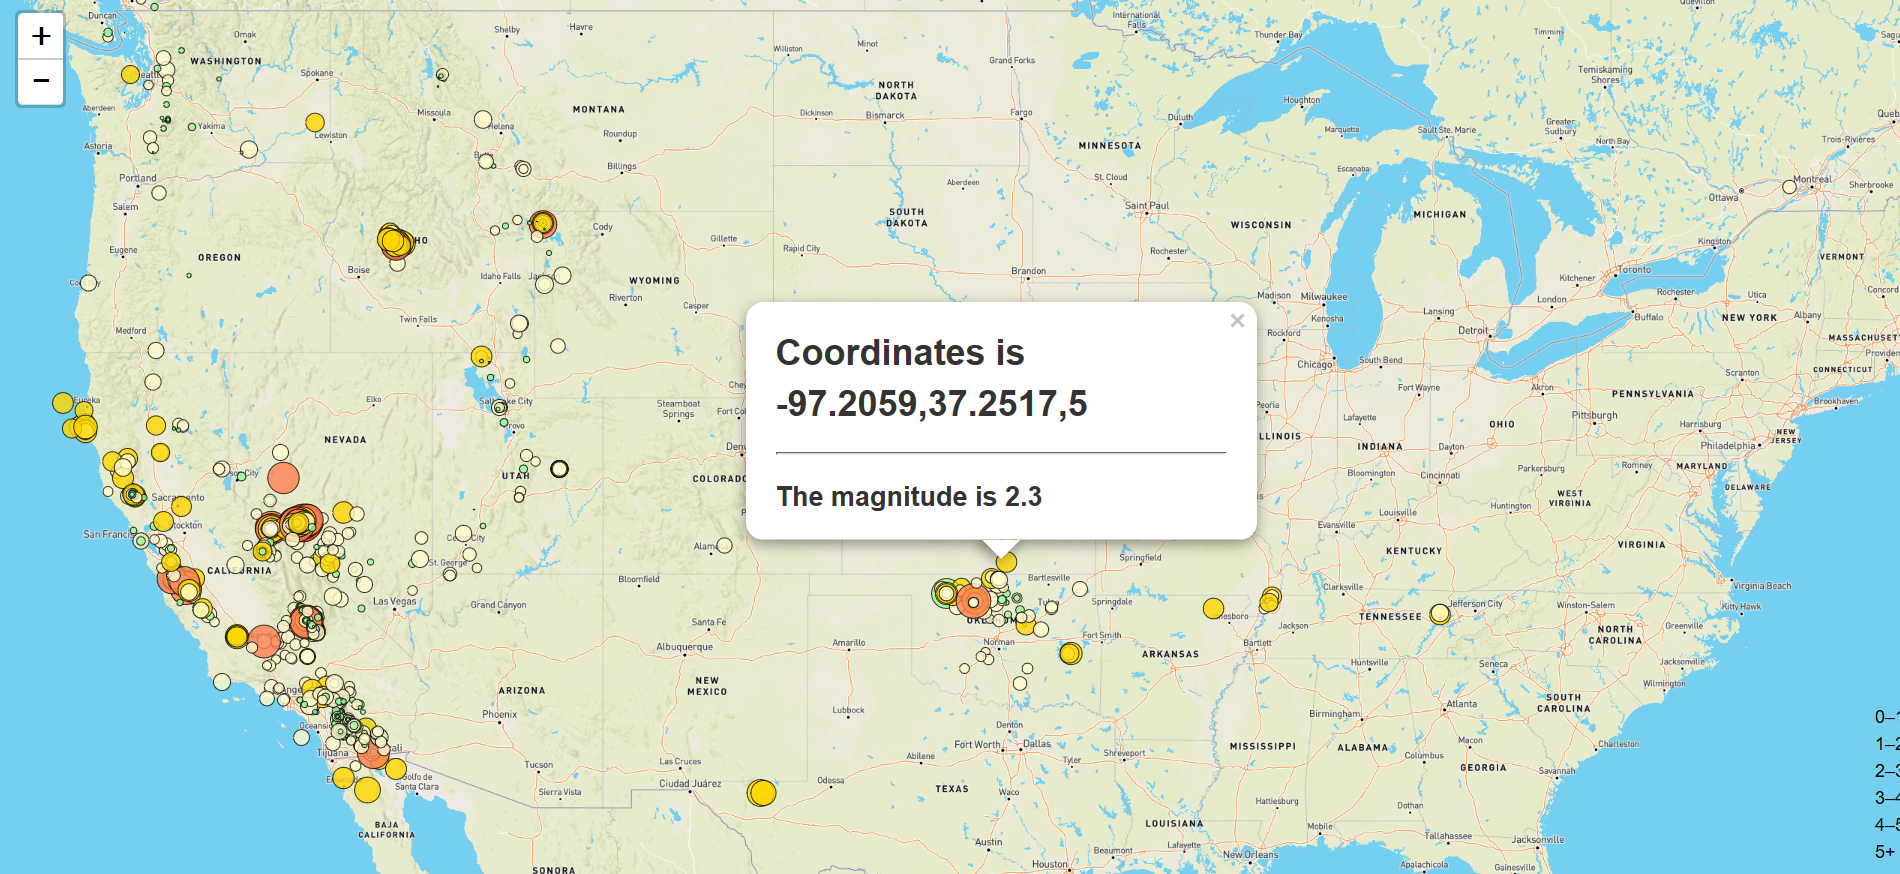
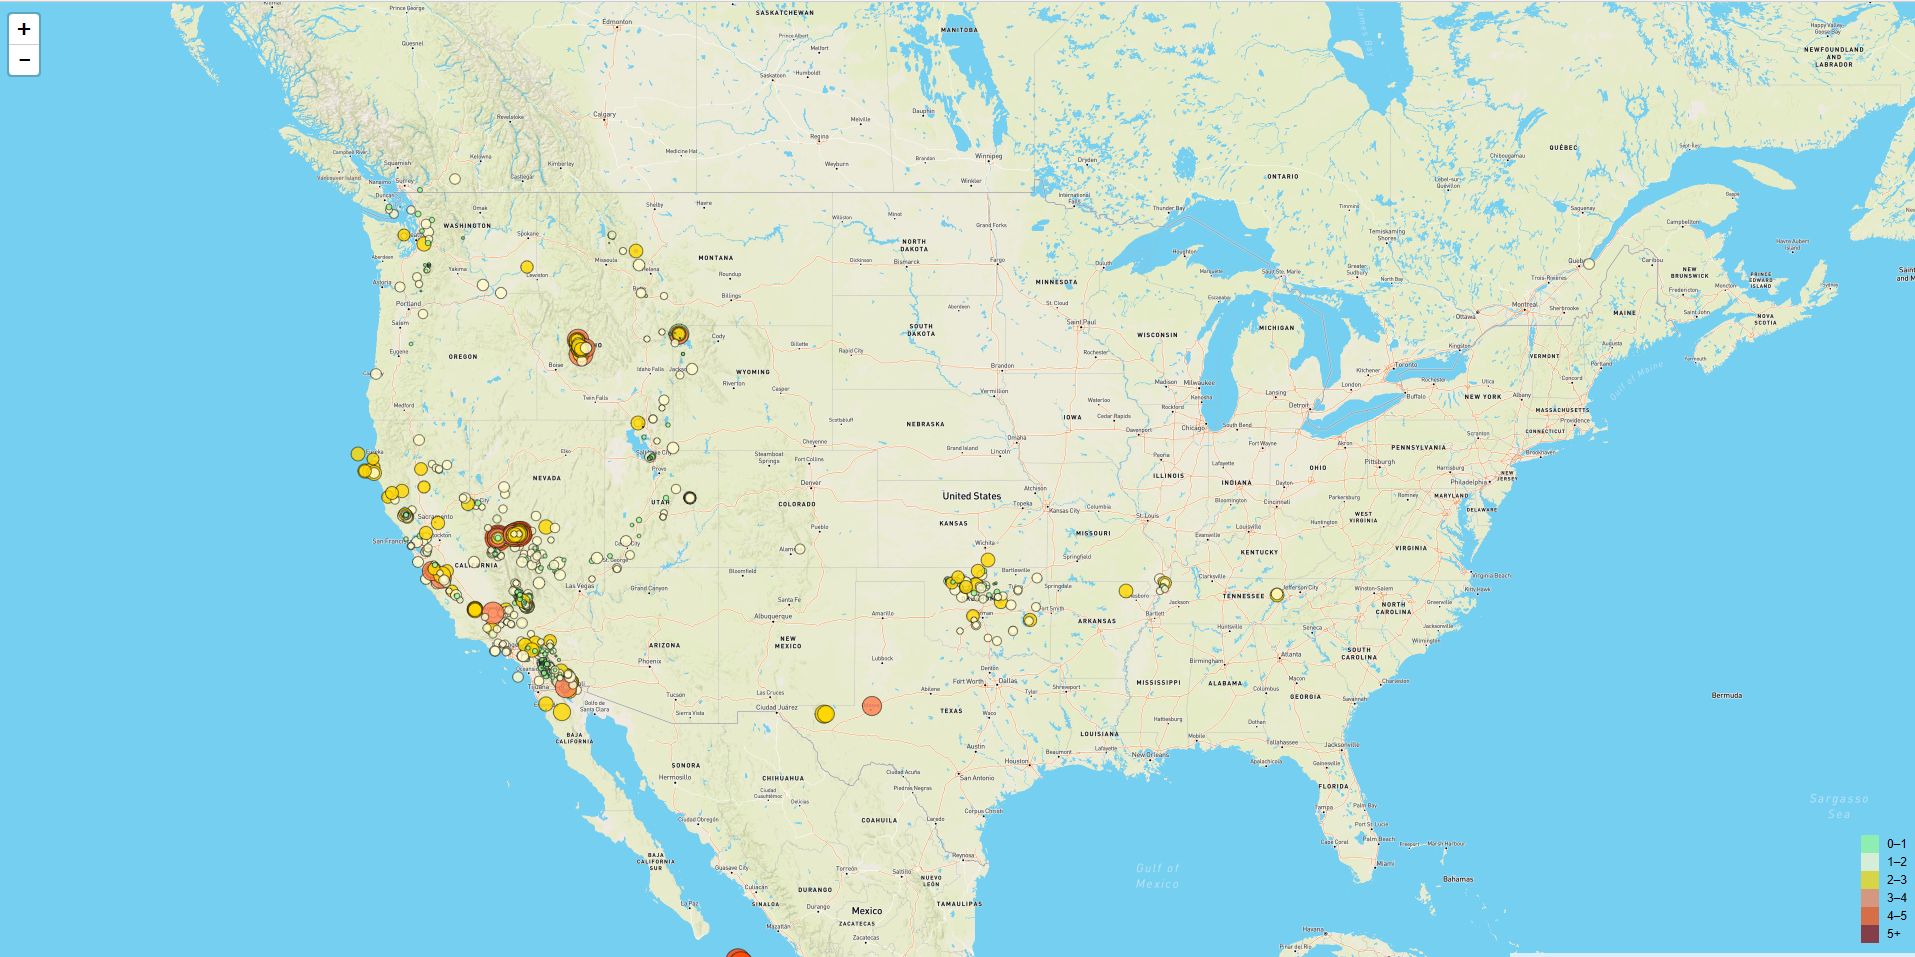
update legend

diff --git a/Leaflet-Step-1/static/js/logic.js b/Leaflet-Step-1/static/js/logic.js
@@ -59,10 +59,10 @@ d3.json(link, function(response) {
 
     var legend = L.control({position: 'bottomright'});
 
-    legend.onAdd = function (map) {
+    legend.onAdd = function () {
     
-        var div = L.DomUtil.create('div', 'info legend'),
-            grades = [0, 1, 2, 3, 4, 5],
+        var div = L.DomUtil.create('div', 'info legend');
+            grades = [0, 1, 2, 3, 4, 5];
             labels = [];
     
         // loop through our density intervals and generate a label with a colored square for each interval

diff --git a/Leaflet-Step-1/static/css/style.css b/Leaflet-Step-1/static/css/style.css
@@ -8,3 +8,12 @@ body,
 html {
   height: 100%;
 }
+
+.legend i {
+  float: left;
+  width: 10px;
+  height: 10px;
+}
+
+
+
